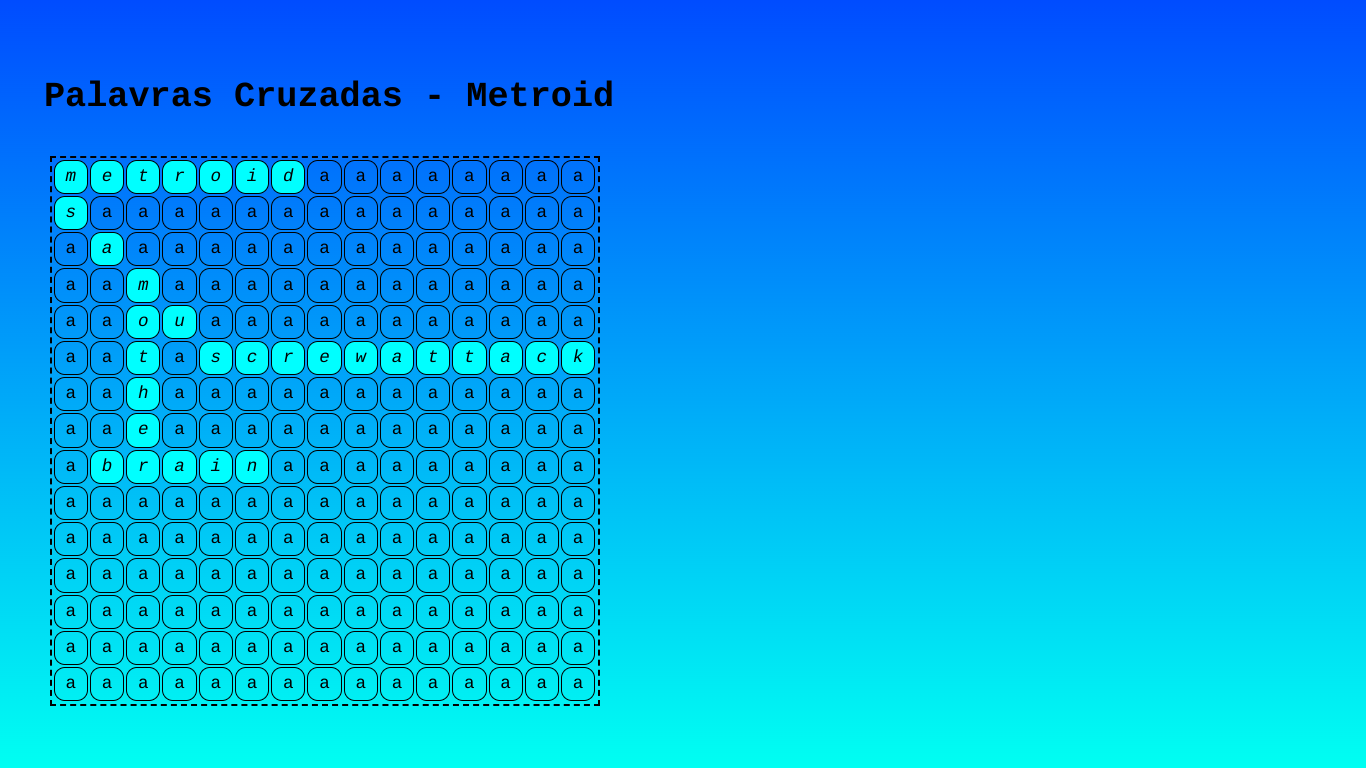
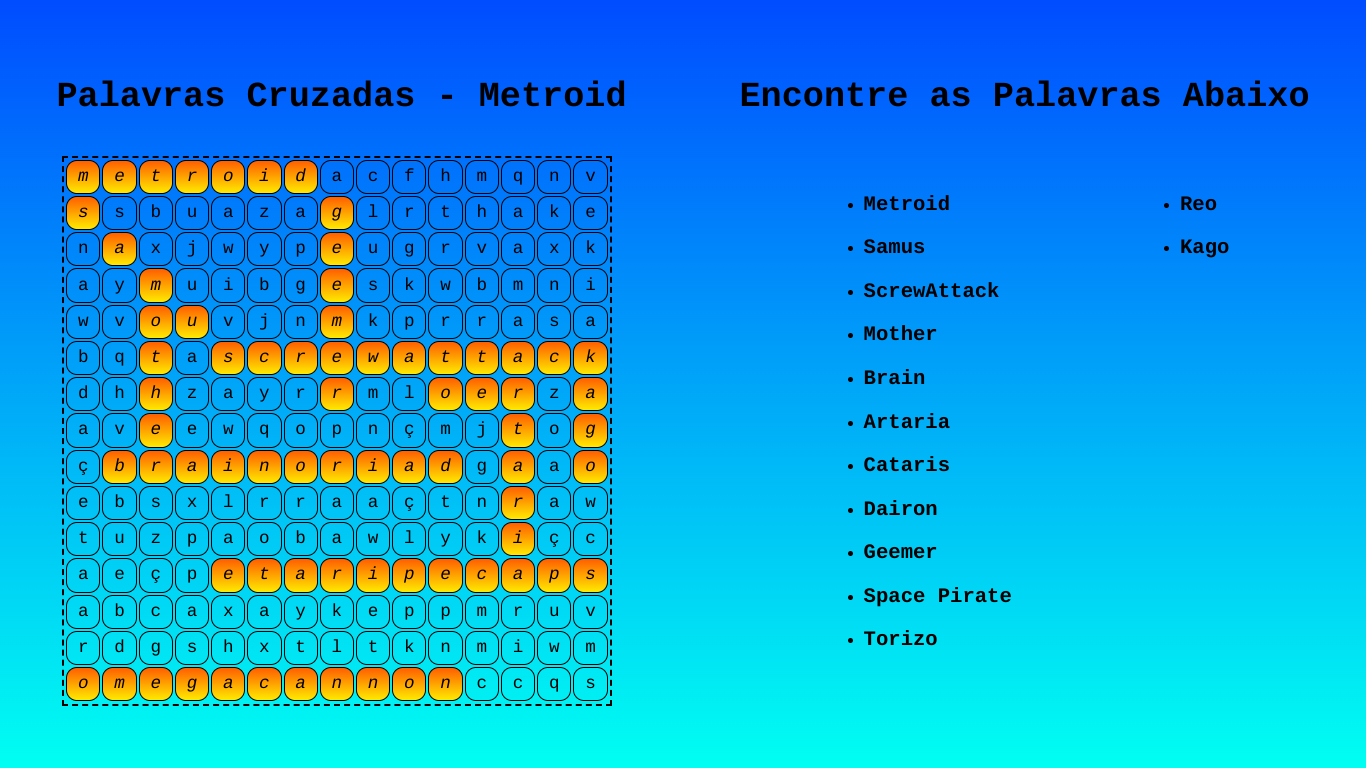
Versão final

diff --git a/matriz.js b/matriz.js
@@ -2,77 +2,77 @@ matriz = new Array;
 matriz = [
     [ 
         ['M', 'd'], ['E', 'd'], ['T', 'd'], ['R', 'd'], ['O', 'd'], 
-        ['I', 'd'], ['D', 'd'], ['a', ''], ['a', ''], ['a', ''],
-        ['a', ''], ['a', ''], ['a', ''], ['a', ''], ['a', ''],
+        ['I', 'd'], ['D', 'd'], ['a', ''], ['c', ''], ['f', ''],
+        ['h', ''], ['m', ''], ['q', ''], ['n', ''], ['v', ''],
     ],
     [ 
-        ['S', 'd'], ['a', ''], ['a', ''], ['a', ''], ['a', ''], 
-        ['a', ''], ['a', ''], ['a', ''], ['a', ''], ['a', ''],
-        ['a', ''], ['a', ''], ['a', ''], ['a', ''], ['a', ''],
+        ['S', 'd'], ['s', ''], ['b', ''], ['u', ''], ['a', ''], 
+        ['z', ''], ['a', ''], ['G', 'd'], ['l', ''], ['r', ''],
+        ['t', ''], ['h', ''], ['a', ''], ['k', ''], ['e', ''],
     ],
     [ 
-        ['a', ''], ['A', 'd'], ['a', ''], ['a', ''], ['a', ''], 
-        ['a', ''], ['a', ''], ['a', ''], ['a', ''], ['a', ''],
-        ['a', ''], ['a', ''], ['a', ''], ['a', ''], ['a', ''],
+        ['n', ''], ['A', 'd'], ['x', ''], ['j', ''], ['w', ''], 
+        ['y', ''], ['p', ''], ['E', 'd'], ['u', ''], ['g', ''],
+        ['r', ''], ['v', ''], ['a', ''], ['x', ''], ['k', ''],
     ],
     [ 
-        ['a', ''], ['a', ''], ['M', 'd'], ['a', ''], ['a', ''], 
-        ['a', ''], ['a', ''], ['a', ''], ['a', ''], ['a', ''],
-        ['a', ''], ['a', ''], ['a', ''], ['a', ''], ['a', ''],
+        ['a', ''], ['y', ''], ['M', 'd'], ['u', ''], ['i', ''], 
+        ['b', ''], ['g', ''], ['E', 'd'], ['s', ''], ['k', ''],
+        ['w ', ''], ['b', ''], ['m', ''], ['n', ''], ['i', ''],
     ],
     [ 
-        ['a', ''], ['a', ''], ['O', 'd'], ['U', 'd'], ['a', ''], 
-        ['a', ''], ['a', ''], ['a', ''], ['a', ''], ['a', ''],
-        ['a', ''], ['a', ''], ['a', ''], ['a', ''], ['a', ''],
+        ['w', ''], ['v', ''], ['O', 'd'], ['U', 'd'], ['v', ''], 
+        ['j', ''], ['n', ''], ['M', 'd'], ['k', ''], ['p', ''],
+        ['r', ''], ['r', ''], ['a', ''], ['s', ''], ['a', ''],
     ],
     [ 
-        ['a', ''], ['a', ''], ['T', 'd'], ['a', ''], ['S', 'd'], 
+        ['b', ''], ['q', ''], ['T', 'd'], ['a', ''], ['S', 'd'], 
         ['C', 'd'], ['R', 'd'], ['E', 'd'], ['W', 'd'], ['A', 'd'],
         ['T', 'd'], ['T', 'd'], ['A', 'd'], ['C', 'd'], ['K', 'd'],
     ],
     [ 
-        ['a', ''], ['a', ''], ['H', 'd'], ['a', ''], ['a', ''], 
-        ['a', ''], ['a', ''], ['a', ''], ['a', ''], ['a', ''],
-        ['a', ''], ['a', ''], ['a', ''], ['a', ''], ['a', ''],
+        ['d', ''], ['h', ''], ['H', 'd'], ['z', ''], ['a', ''], 
+        ['y', ''], ['r', ''], ['R', 'd'], ['m', ''], ['l', ''],
+        ['O', 'd'], ['E', 'd'], ['R', 'd'], ['z', ''], ['A', 'd'],
     ],
     [ 
-        ['a', ''], ['a', ''], ['E', 'd'], ['a', ''], ['a', ''], 
-        ['a', ''], ['a', ''], ['a', ''], ['a', ''], ['a', ''],
-        ['a', ''], ['a', ''], ['a', ''], ['a', ''], ['a', ''],
+        ['a', ''], ['v', ''], ['E', 'd'], ['e', ''], ['w', ''], 
+        ['q', ''], ['o', ''], ['p', ''], ['n', ''], ['ç', ''],
+        ['m', ''], ['j', ''], ['T', 'd'], ['o', ''], ['G', 'd'],
     ],
     [ 
-        ['a', ''], ['B', 'd'], ['R', 'd'], ['A', 'd'], ['I', 'd'], 
-        ['N', 'd'], ['a', ''], ['a', ''], ['a', ''], ['a', ''],
-        ['a', ''], ['a', ''], ['a', ''], ['a', ''], ['a', ''],
+        ['ç', ''], ['B', 'd'], ['R', 'd'], ['A', 'd'], ['I', 'd'], 
+        ['N', 'd'], ['O', 'd'], ['R', 'd'], ['I', 'd'], ['A', 'd'],
+        ['D', 'd'], ['g', ''], ['A', 'd'], ['a', ''], ['O', 'd'],
     ],
     [ 
-        ['a', ''], ['a', ''], ['a', ''], ['a', ''], ['a', ''], 
-        ['a', ''], ['a', ''], ['a', ''], ['a', ''], ['a', ''],
-        ['a', ''], ['a', ''], ['a', ''], ['a', ''], ['a', ''],
+        ['e', ''], ['b', ''], ['s', ''], ['x', ''], ['l', ''], 
+        ['r', ''], ['r', ''], ['a', ''], ['a', ''], ['ç', ''],
+        ['t', ''], ['n', ''], ['R', 'd'], ['a', ''], ['w', ''],
     ],
     [ 
-        ['a', ''], ['a', ''], ['a', ''], ['a', ''], ['a', ''], 
-        ['a', ''], ['a', ''], ['a', ''], ['a', ''], ['a', ''],
-        ['a', ''], ['a', ''], ['a', ''], ['a', ''], ['a', ''],
+        ['t', ''], ['u', ''], ['z', ''], ['p', ''], ['a', ''], 
+        ['o', ''], ['b', ''], ['a', ''], ['w', ''], ['l', ''],
+        ['y', ''], ['k', ''], ['I', 'd'], ['ç', ''], ['c', ''],
     ],
     [ 
-        ['a', ''], ['a', ''], ['a', ''], ['a', ''], ['a', ''], 
-        ['a', ''], ['a', ''], ['a', ''], ['a', ''], ['a', ''],
-        ['a', ''], ['a', ''], ['a', ''], ['a', ''], ['a', ''],
+        ['a', ''], ['e', ''], ['ç', ''], ['p', ''], ['E', 'd'], 
+        ['T', 'd'], ['A', 'd'], ['R', 'd'], ['I', 'd'], ['P', 'd'],
+        ['E', 'd'], ['C', 'd'], ['A', 'd'], ['P', 'd'], ['S', 'd'],
     ],
     [ 
-        ['a', ''], ['a', ''], ['a', ''], ['a', ''], ['a', ''], 
-        ['a', ''], ['a', ''], ['a', ''], ['a', ''], ['a', ''],
-        ['a', ''], ['a', ''], ['a', ''], ['a', ''], ['a', ''],
+        ['a', ''], ['b', ''], ['c', ''], ['a', ''], ['x', ''], 
+        ['a', ''], ['y', ''], ['k', ''], ['e', ''], ['p', ''],
+        ['p', ''], ['m', ''], ['r', ''], ['u', ''], ['v', ''],
     ],
     [ 
-        ['a', ''], ['a', ''], ['a', ''], ['a', ''], ['a', ''], 
-        ['a', ''], ['a', ''], ['a', ''], ['a', ''], ['a', ''],
-        ['a', ''], ['a', ''], ['a', ''], ['a', ''], ['a', ''],
+        ['r', ''], ['d', ''], ['g', ''], ['s', ''], ['h', ''], 
+        ['x', ''], ['t', ''], ['l', ''], ['t', ''], ['k', ''],
+        ['n', ''], ['m', ''], ['i', ''], ['w', ''], ['m', ''],
     ],
     [ 
-        ['a', ''], ['a', ''], ['a', ''], ['a', ''], ['a', ''], 
-        ['a', ''], ['a', ''], ['a', ''], ['a', ''], ['a', ''],
-        ['a', ''], ['a', ''], ['a', ''], ['a', ''], ['a', ''],
+        ['O', 'd'], ['M', 'd'], ['E', 'd'], ['G', 'd'], ['A', 'd'], 
+        ['C', 'd'], ['A', 'd'], ['N', 'd'], ['N', 'd'], ['O', 'd'],
+        ['N', 'd'], ['c', ''], ['c', ''], ['q', ''], ['s', ''],
     ],
 ];

diff --git a/index.html b/index.html
@@ -10,18 +10,42 @@
 </head>
 <body>
     <div class="wrapper">
-        <h1>Palavras Cruzadas - Metroid</h1>
-        <table>
-            <script>
-                for(i = 0; i < matriz.length; i++) {
-                    document.write('<tr>');
-                    for(j = 0; j < matriz[i].length; j++) {
-                        document.write("<td class='" + matriz[i][j][1] + "'>" + matriz[i][j][0] + "</td>");
+        <div class="palavrasCruzadas">
+            <h1>Palavras Cruzadas - Metroid</h1>
+            <table>
+                <script>
+                    for(i = 0; i < matriz.length; i++) {
+                        document.write('<tr>');
+                        for(j = 0; j < matriz[i].length; j++) {
+                            document.write("<td class='" + matriz[i][j][1] + "'>" + matriz[i][j][0] + "</td>");
+                        }
+                        document.write('</tr>');
                     }
-                    document.write('</tr>');
-                }
-            </script>
-        </table>
+                </script>
+            </table>
+        </div>
+        <div class="conteudo">
+            <h1>Encontre as Palavras Abaixo</h1>
+            <div class="list">
+                <ul>
+                    <li><h3>Metroid</h3></li>
+                    <li><h3>Samus</h3></li>
+                    <li><h3>ScrewAttack</h3></li>
+                    <li><h3>Mother</h3></li>
+                    <li><h3>Brain</h3></li>
+                    <li><h3>Artaria</h3></li>
+                    <li><h3>Cataris</h3></li>
+                    <li><h3>Dairon</h3></li>
+                    <li><h3>Geemer</h3></li>
+                    <li><h3>Space Pirate</h3></li>
+                    <li><h3>Torizo</h3></li>
+                </ul>
+                <ul>
+                    <li><h3>Reo</h3></li>
+                    <li><h3>Kago</h3></li>
+                </ul>
+            </div>
+        </div>
     </div>
 </body>
 </html>

diff --git a/style.css b/style.css
@@ -2,23 +2,32 @@ body {
     margin: 0%;
     padding: 0%;
 }
+
 .wrapper {
     display: flex;
-    flex-direction: column;
+    flex-direction: row;
     position: absolute;
     background: linear-gradient(to top, #00fff2, #004cff);
     width: 100%;
     height: 100%;
-    align-items: flex-start;
+    justify-content: space-around;
+}
+
+ .wrapper .palavrasCruzadas {
+    flex-direction: column;
+}
+.wrapper .palavrasCruzadas {
+    flex-direction: column;
+}
+
+.list {
+    display: flex;
+    justify-content: space-evenly;
+    flex-direction: row;
 }
 
 h1 {
     margin: 70px 40px 35px;
-}
-
-nav {
-    width: 100%;
-    display: inline-flex;
 }
 
 table {
@@ -38,7 +47,7 @@ table tr td {
 }
 
 .d {
-    background-color: aqua;
+    background: linear-gradient(to top, #ffea00, #ff5e00);
     color: black;
     text-transform: lowercase;
     font-style: italic;

diff --git a/README.md b/README.md
@@ -2,4 +2,4 @@
 uma aplicação criada para aplicar os conhecimentos em vetores(Arrays) e loops(for) em js
 
 ## ScreenShot:
-[exemplo](/screenshot.png)
+<img src='./screenshot.png'>
